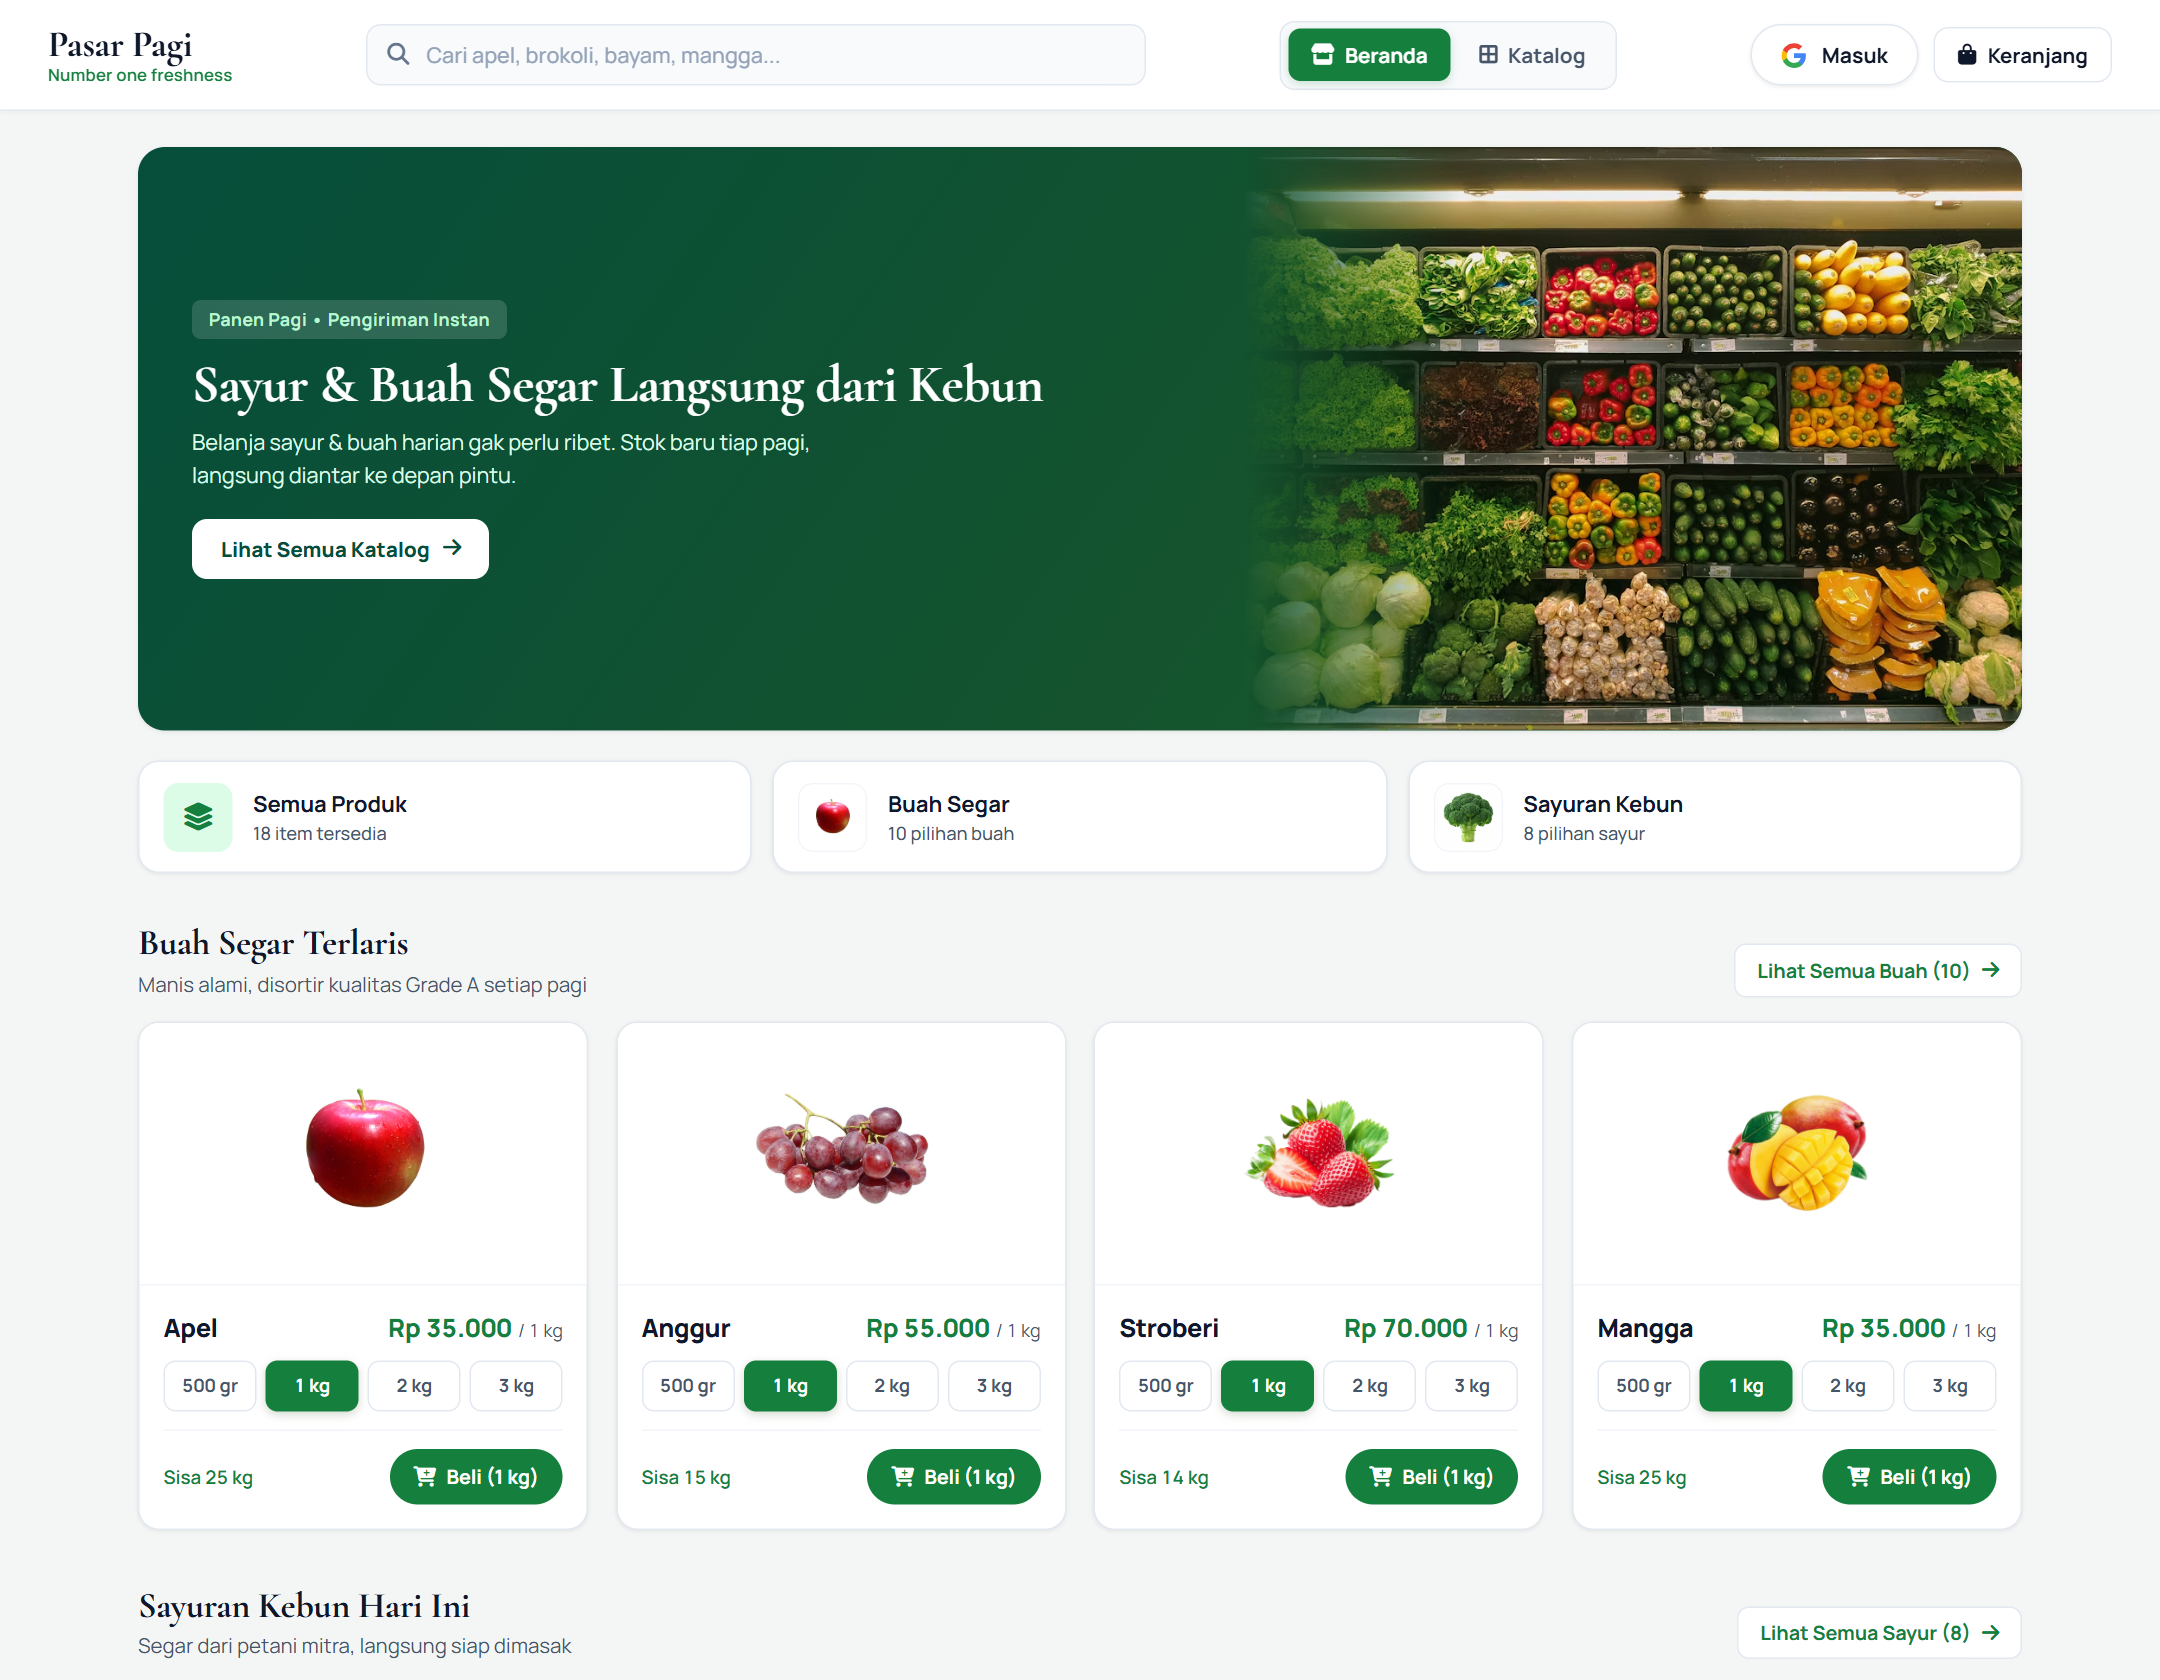
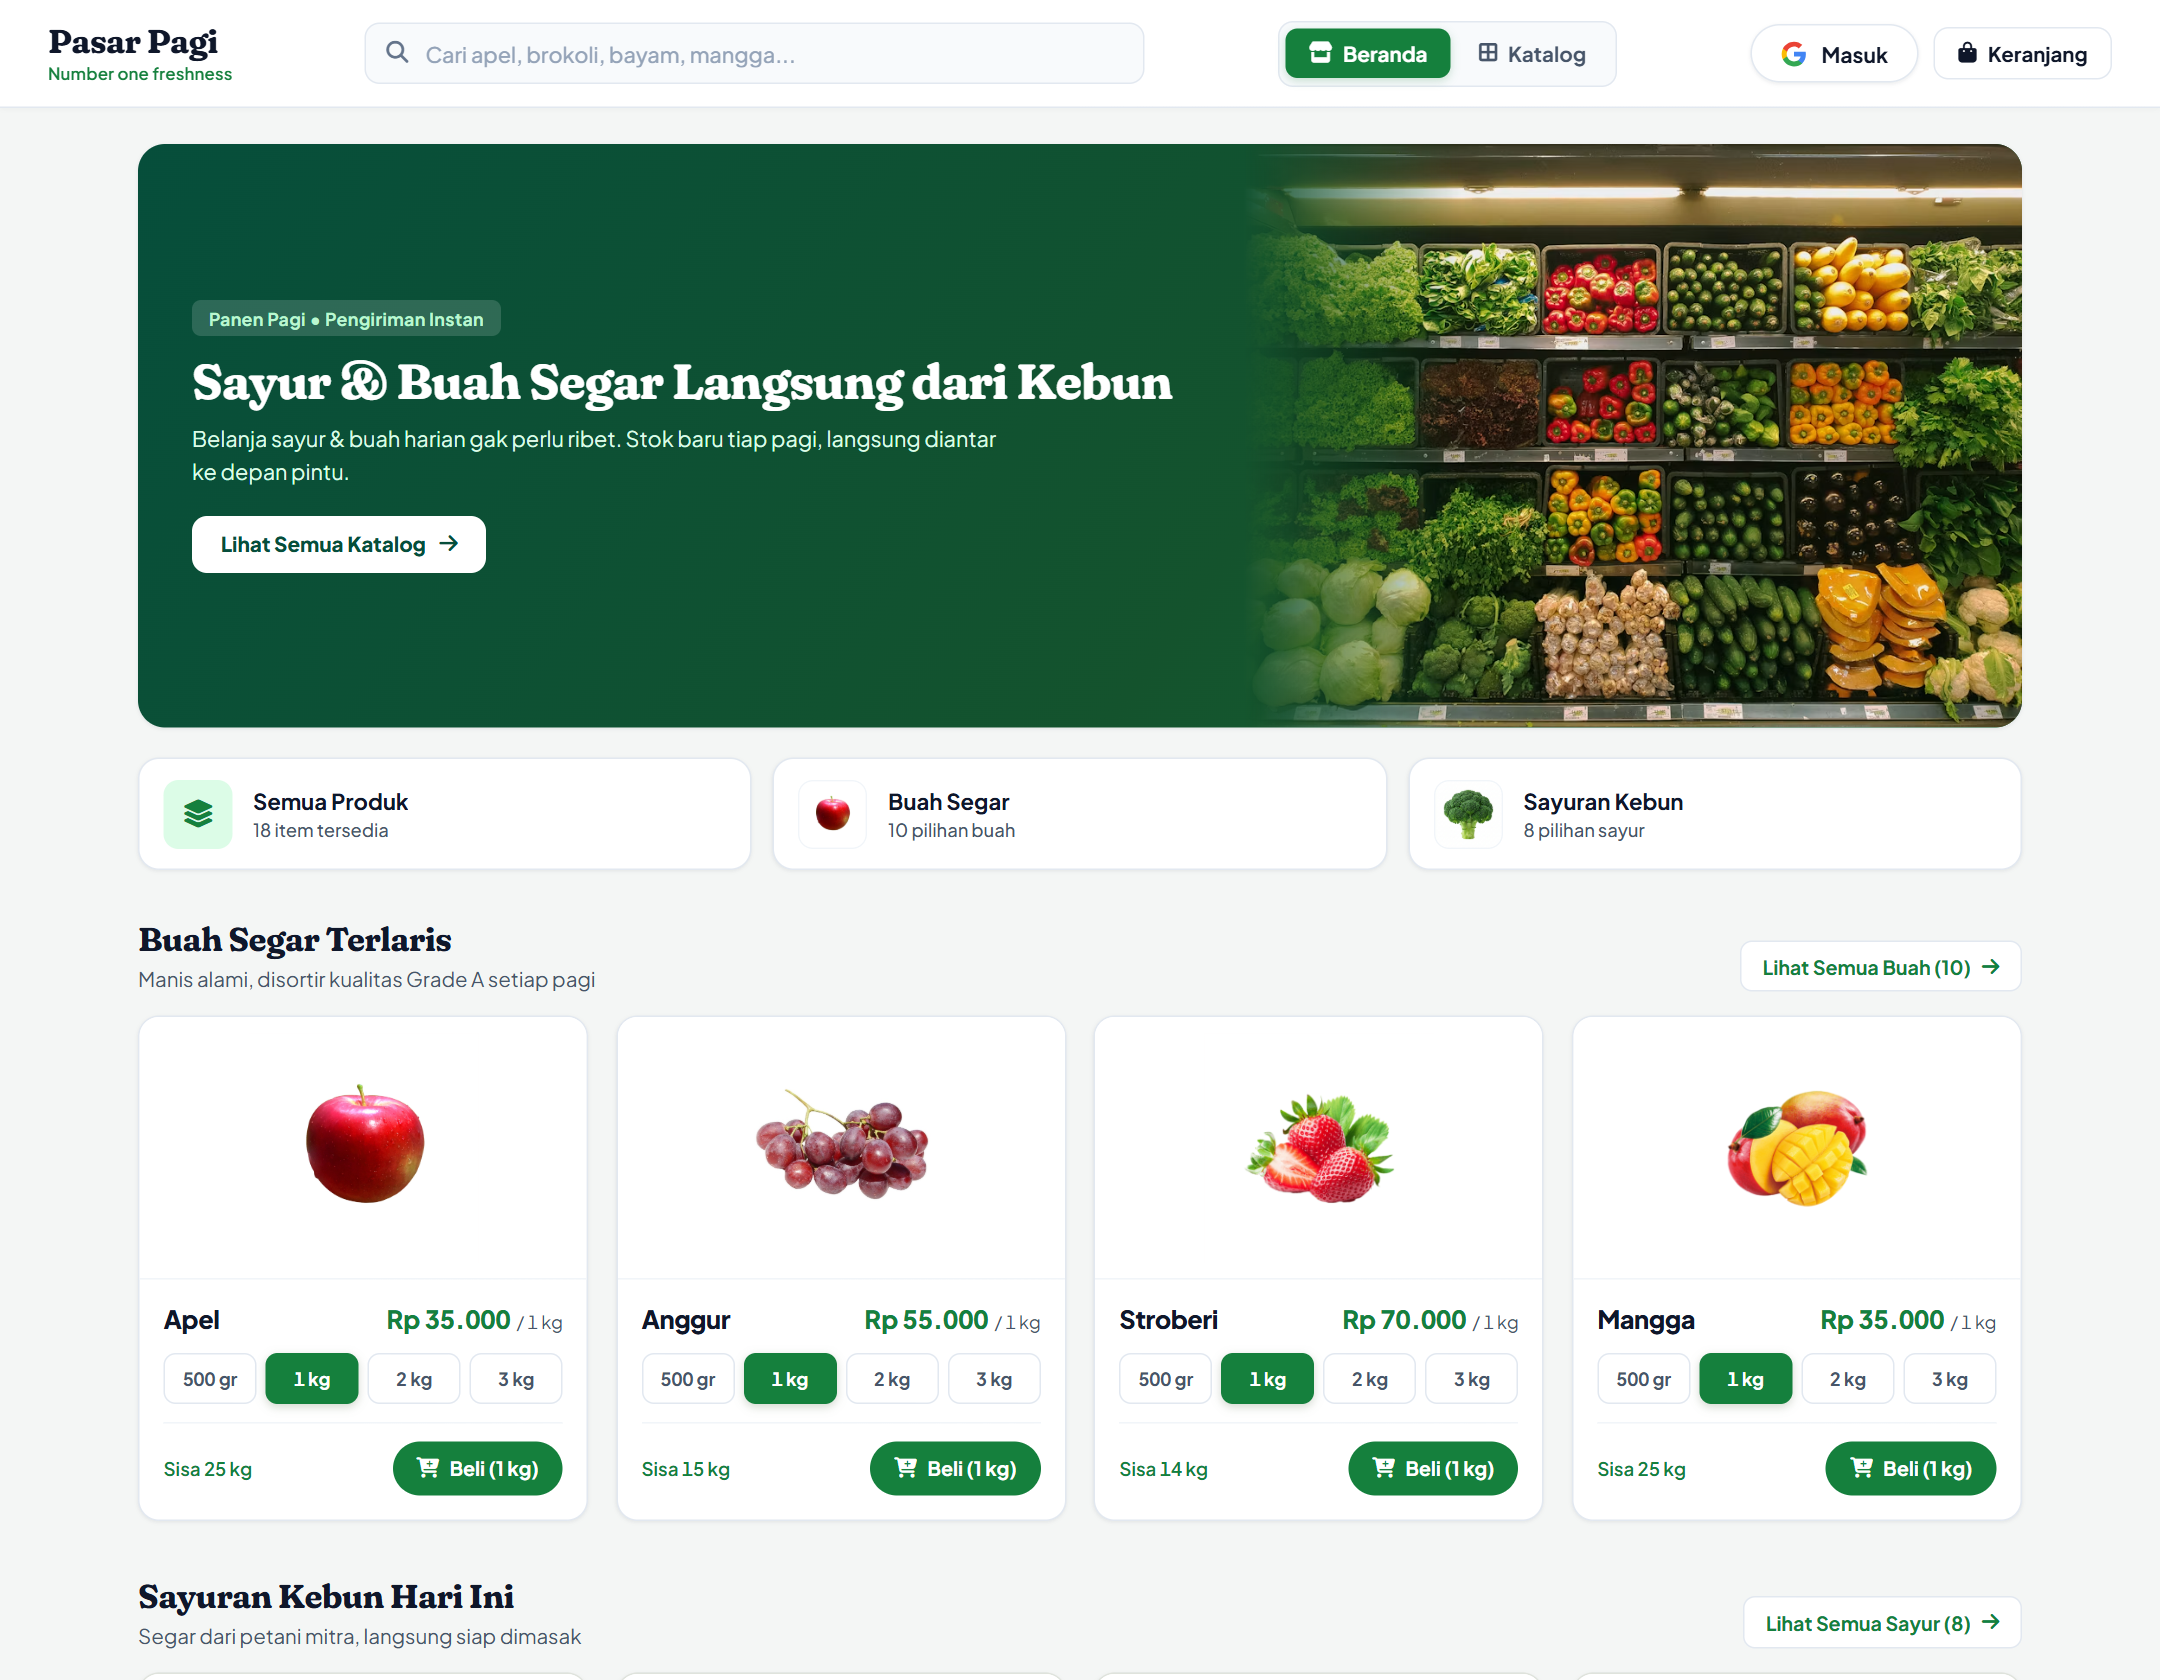
style: upgrade typography to Fraunces soft-serif and Plus Jakarta Sans

diff --git a/src/style.css b/src/style.css
@@ -1,5 +1,3 @@
-@import url("https://fonts.googleapis.com/css2?family=Cormorant+Garamond:ital,wght@0,500;0,600;0,700;1,400;1,600&family=Manrope:wght@400;500;600;700;800&display=swap");
-
 :root {
   --cream: #f4f6f5;
   --paper: #ffffff;
@@ -23,8 +21,8 @@
   --radius-sm: 10px;
   --radius-md: 14px;
   --radius-lg: 18px;
-  --font-serif: "Cormorant Garamond", Georgia, serif;
-  --font-sans: "Manrope", -apple-system, BlinkMacSystemFont, "Segoe UI", Roboto, sans-serif;
+  --font-serif: "Fraunces", Georgia, serif;
+  --font-sans: "Plus Jakarta Sans", -apple-system, BlinkMacSystemFont, "Segoe UI", Roboto, sans-serif;
 }
 
 * { box-sizing: border-box; }
@@ -103,12 +101,13 @@ body {
 }
 
 .brand-title {
-  margin: 0;
-  font-size: 1.55rem;
+  margin: 0 0 0.1rem;
+  font-size: 1.38rem;
   line-height: 1.05;
   font-family: var(--font-serif);
+  font-variation-settings: "SOFT" 100;
   font-weight: 700;
-  letter-spacing: -0.01em;
+  letter-spacing: -0.02em;
   color: var(--brown);
 }
 
@@ -274,12 +273,13 @@ body {
 }
 
 .ecom-banner-title {
-  margin: 0 0 0.5rem;
+  margin: 0 0 0.55rem;
   font-family: var(--font-serif);
-  font-size: clamp(1.65rem, 2.6vw, 2.2rem);
+  font-variation-settings: "SOFT" 100;
+  font-size: clamp(1.55rem, 2.4vw, 2.05rem);
   font-weight: 700;
-  line-height: 1.15;
-  letter-spacing: -0.01em;
+  line-height: 1.18;
+  letter-spacing: -0.02em;
   color: #ffffff;
 }
 
@@ -430,11 +430,12 @@ body {
 }
 
 .shelf-title {
-  margin: 0 0 0.2rem;
+  margin: 0 0 0.25rem;
   font-family: var(--font-serif);
-  font-size: 1.5rem;
+  font-variation-settings: "SOFT" 100;
+  font-size: 1.38rem;
   font-weight: 700;
-  letter-spacing: -0.01em;
+  letter-spacing: -0.02em;
   color: var(--brown);
 }
 

diff --git a/index.html b/index.html
@@ -7,7 +7,7 @@
   <meta name="description" content="Belanja buah segar dan sayuran kebun kualitas pilihan dengan harga langsung dari petani mitra.">
   <link rel="preconnect" href="https://fonts.googleapis.com">
   <link rel="preconnect" href="https://fonts.gstatic.com" crossorigin>
-  <link href="https://fonts.googleapis.com/css2?family=Cormorant+Garamond:ital,wght@0,500;0,600;0,700;1,400;1,600&family=Manrope:wght@400;500;600;700;800&display=swap" rel="stylesheet">
+  <link href="https://fonts.googleapis.com/css2?family=Fraunces:ital,opsz,SOFT,wght@0,9..144,50..100,600..700;1,9..144,50..100,600&family=Plus+Jakarta+Sans:wght@400;500;600;700;800&display=swap" rel="stylesheet">
   <link rel="stylesheet" href="/src/style.css">
   <link rel="stylesheet" href="https://cdnjs.cloudflare.com/ajax/libs/font-awesome/6.5.1/css/all.min.css">
   <!-- Google Identity Services (GIS) SDK -->

diff --git a/admin.html b/admin.html
@@ -6,7 +6,7 @@
   <title>Pasar Pagi — Admin Dashboard (Stok & Pesanan)</title>
   <link rel="preconnect" href="https://fonts.googleapis.com">
   <link rel="preconnect" href="https://fonts.gstatic.com" crossorigin>
-  <link href="https://fonts.googleapis.com/css2?family=Cormorant+Garamond:wght@600;700&family=Manrope:wght@400;500;600;700;800&display=swap" rel="stylesheet">
+  <link href="https://fonts.googleapis.com/css2?family=Fraunces:opsz,SOFT,wght@9..144,50..100,600..700&family=Plus+Jakarta+Sans:wght@400;500;600;700;800&display=swap" rel="stylesheet">
   <link rel="stylesheet" href="https://cdnjs.cloudflare.com/ajax/libs/font-awesome/6.5.1/css/all.min.css">
   <link rel="stylesheet" href="/src/admin.css">
 </head>

diff --git a/src/admin.css b/src/admin.css
@@ -18,8 +18,8 @@
   --radius-sm: 8px;
   --radius-md: 12px;
   --radius-lg: 16px;
-  --font-serif: "Cormorant Garamond", Georgia, serif;
-  --font-sans: "Manrope", -apple-system, BlinkMacSystemFont, "Segoe UI", sans-serif;
+  --font-serif: "Fraunces", Georgia, serif;
+  --font-sans: "Plus Jakarta Sans", -apple-system, BlinkMacSystemFont, "Segoe UI", sans-serif;
 }
 
 * { box-sizing: border-box; }
